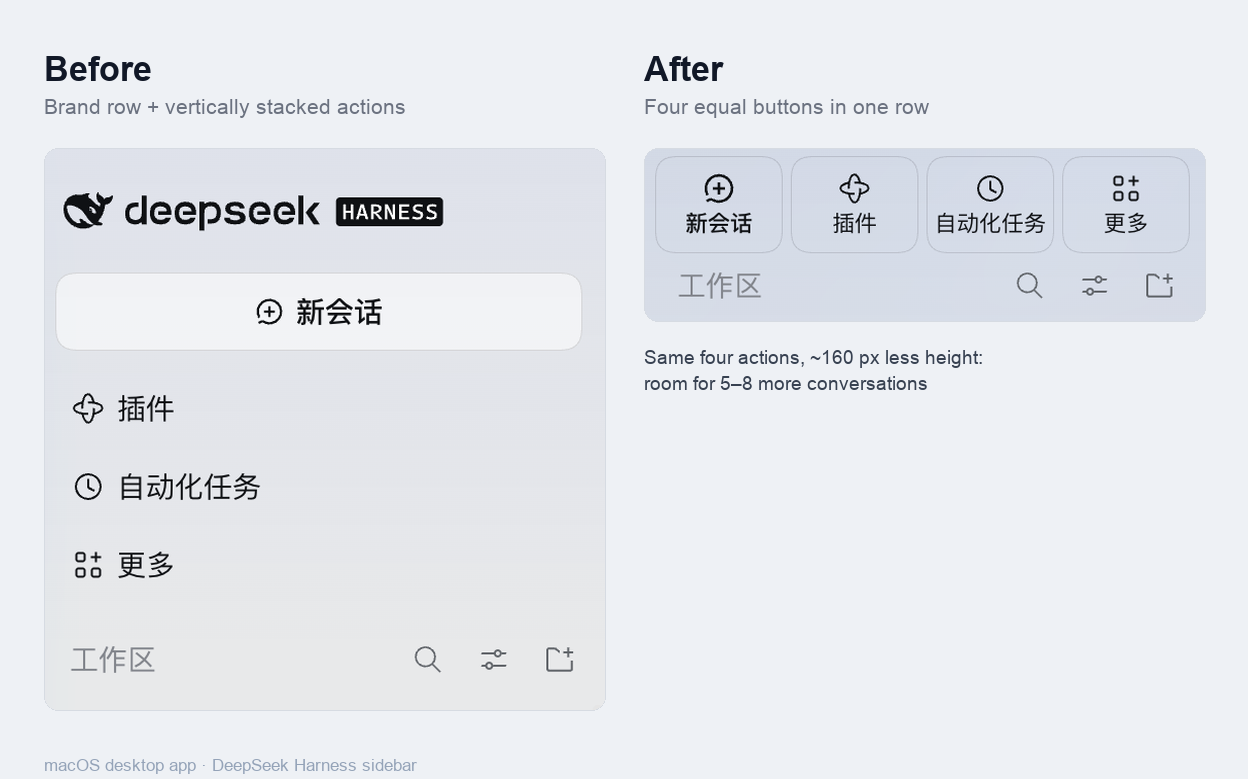
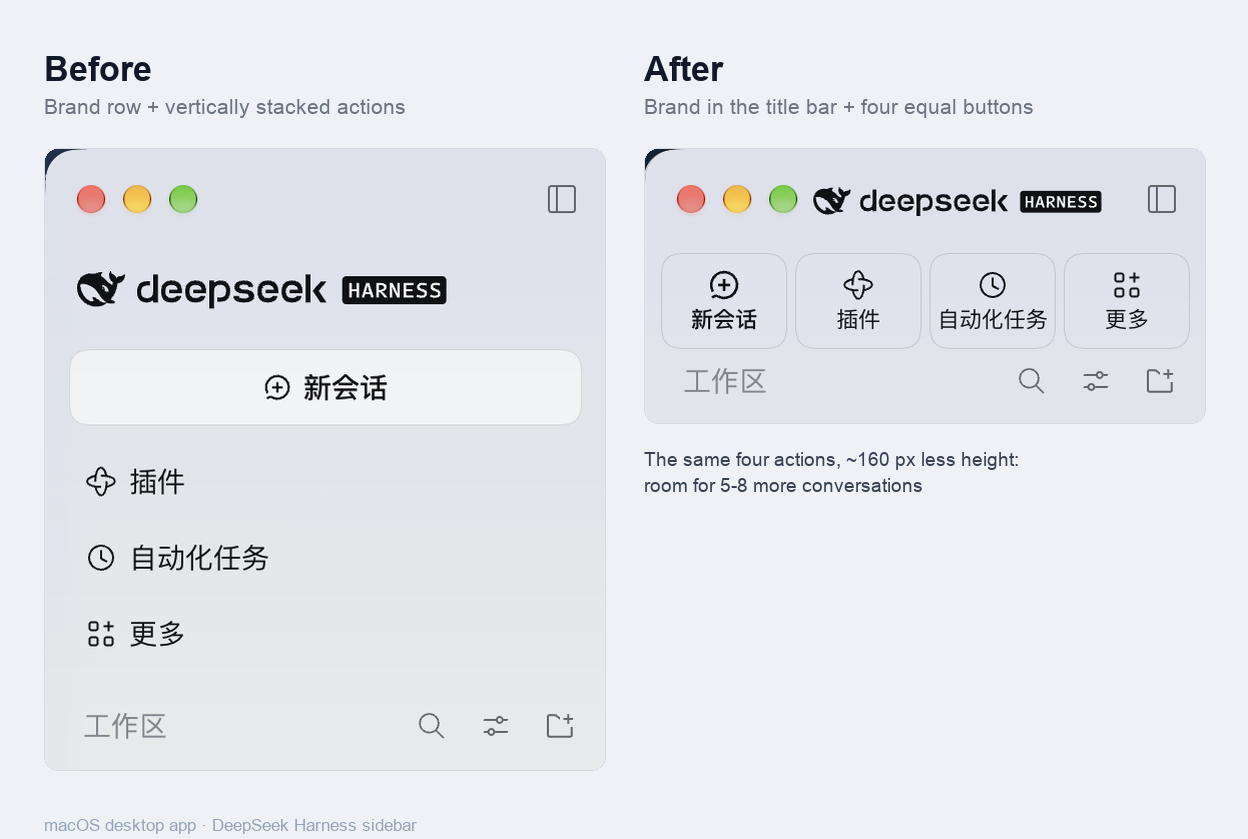
Move brand into the title-bar strip, keep the four-button row fixed

diff --git a/client.js b/client.js
@@ -28,6 +28,7 @@ window.__ModuleLoader__.load({
     const CSS = `
 /* Grid rows: title-bar strip | four-button row | workspace region | footer. */
 ${SCOPE} {
+  position: relative !important;
   display: grid !important;
   grid-template-columns: repeat(4, minmax(0, 1fr)) !important;
   grid-template-rows: auto auto minmax(0, 1fr) auto !important;
@@ -35,13 +36,36 @@ ${SCOPE} {
   row-gap: 0 !important;
 }
 
-/* Keep the drag / collapse strip; remove the DeepSeek Harness brand row. */
+/* Keep the drag / collapse strip in its row. */
 ${SCOPE} > div[class*="_topStrip"] {
   grid-row: 1 !important;
   grid-column: 1 / -1 !important;
 }
+
+/* Brand mark back in the title-bar strip, to the right of the traffic lights and
+   clear of the collapse toggle. Absolute so the button row below never moves. */
 ${SCOPE} > div[class*="_logoRow"] {
-  display: none !important;
+  display: flex !important;
+  position: absolute !important;
+  top: 0 !important;
+  left: 84px !important;
+  right: 50px !important;
+  height: 52px !important;
+  margin: 0 !important;
+  padding: 0 !important;
+  align-items: center !important;
+  justify-content: flex-start !important;
+  overflow: hidden !important;
+  pointer-events: none !important;
+  z-index: 2 !important;
+}
+${SCOPE} > div[class*="_logoRow"] > span[class*="_brand"] {
+  display: inline-flex !important;
+  flex: 0 0 auto !important;
+  padding: 0 !important;
+  cursor: default !important;
+  transform: scale(0.78) !important;
+  transform-origin: left center !important;
 }
 
 /* Cell 1: New session, as a compact bordered button with icon above label. */

diff --git a/README.md b/README.md
@@ -1,18 +1,22 @@
 # dsh-sidebar-compact-macos
 
 A small **macOS desktop** UI plugin for [DeepSeek Harness](https://github.com/deepseek-ai/deepseek-harness).
-It keeps the sidebar's four existing actions, but puts them on one compact row and
-removes the brand row, so the workspace and conversation list gets the vertical
-space instead.
+It keeps the brand mark and the sidebar's four existing actions: the brand moves into the
+window title-bar strip (to the right of the traffic lights), the four actions become one
+row of equal buttons, and the list below gets the vertical space that the stacked rows
+used to take.
 
 ![Before and after](assets/screenshot-compare.png)
 
-![The four equal buttons](assets/screenshot-top.png)
+![Brand in the title bar and the four equal buttons](assets/screenshot-top.png)
 
 ## What it changes
 
-- **Drops the brand row** (`deepseek HARNESS`) from the expanded sidebar. The native
-  window-chrome strip above it is kept, because it carries the sidebar collapse toggle.
+- **Moves the brand into the title-bar strip** (`deepseek HARNESS`): the mark and wordmark
+  now sit to the right of the traffic lights and left of the sidebar collapse toggle,
+  scaled to fit the 52 px strip. It is positioned absolutely, so the button row below does
+  not move; it is decorative (`pointer-events: none`) and never blocks dragging or the
+  toggle.
 - **One row of four equal, bordered buttons:** New session, Plugins, Scheduled tasks and
   More. Each keeps its original host element, handler, shortcut, selected state and menu —
   only the layout and the icon/label sizing are overridden.
